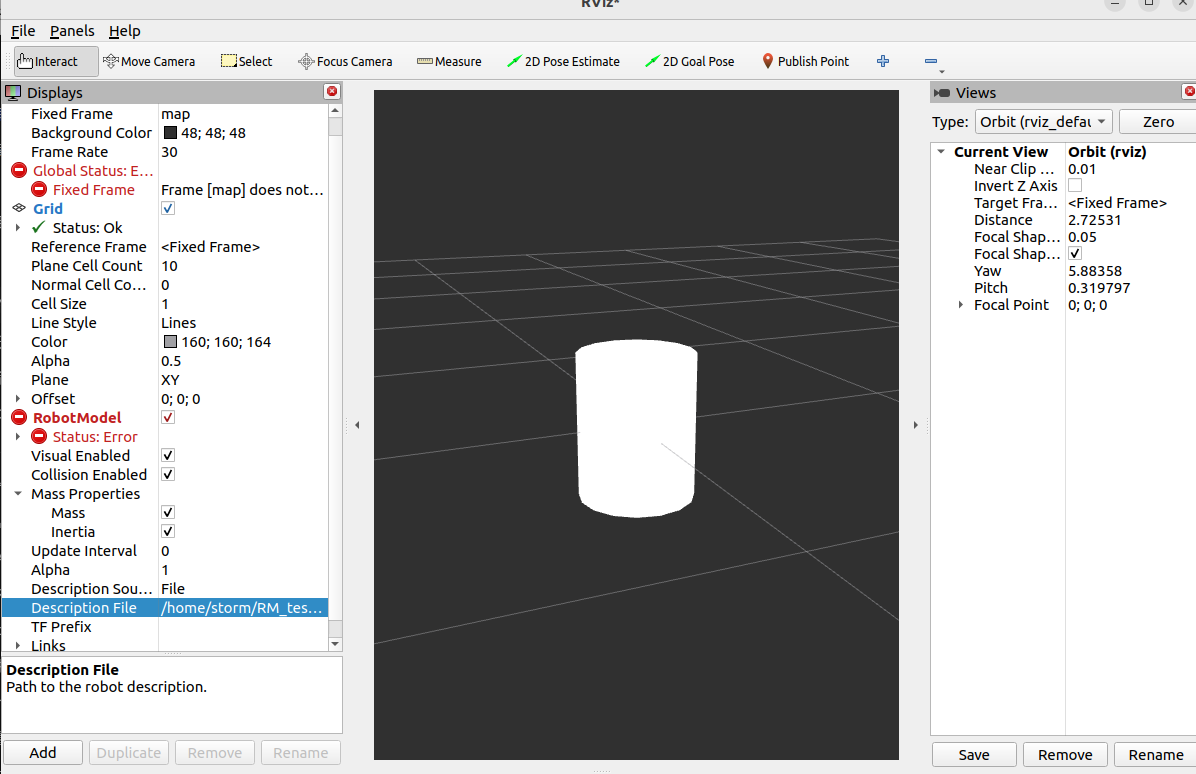
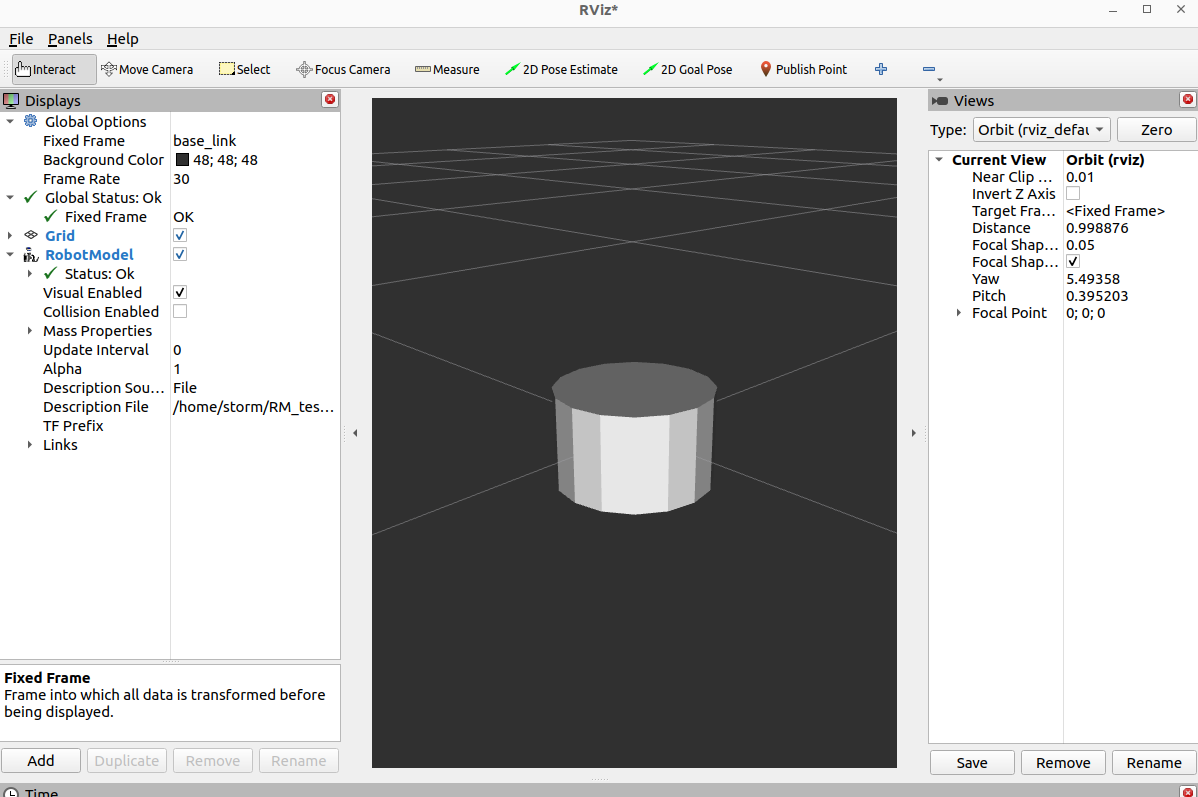
完成雷达导航部分

diff --git a/考核记录/雷达导航/二、tf和rviz使用时的过程记录.md b/考核记录/雷达导航/二、tf和rviz使用时的过程记录.md
@@ -4,12 +4,22 @@
 
 
 
-3.无法显示完整的小车，只能看到一个圆柱体
+3.直接在命令行`ros2 run robot_state_publisher robot_state_publisher --ros-args   -p robot_description:=`无法加载太大的urdf
+
+问gpt知道可以编写launch文件启动解决
+
+
+
+4.无法显示完整的小车，只能看到一个圆柱体
 
 gpt无法解决，遂上csdn找文档
 
-Global Options → Fixed Frame 设置为 base_link（取决于你的 URDF）。
+`Global Options `→ `Fixed Frame` 设置为 `base_link`
 
-4.直接在命令行`ros2 run robot_state_publisher robot_state_publisher --ros-args   -p robot_description:=`无法加载太大的urdf
+5.然而还是少看到两个轮子，于是前往csdn找别人写的launch，发现大家还用了`joint_state_publisher_gui`，加上之后就能显示完整小车了
 
---用launch
+6.tf树不完整，少了两个轮子
+
+检查`urdf`确认有从`base_link`到`wheek`的`joint`
+
+询问gpt后发现是因为urdf文件中有的注释使用了`#`，而这是不规范的，导致有些东西没被正确加载，删除这些注释之后重新编译运行后得到完整的tf。这确实说明了在 URDF 里不能用 `#` 注释，它会被解析器当成错误字符，导致后续的 `<joint>` 没有被正确加载。
